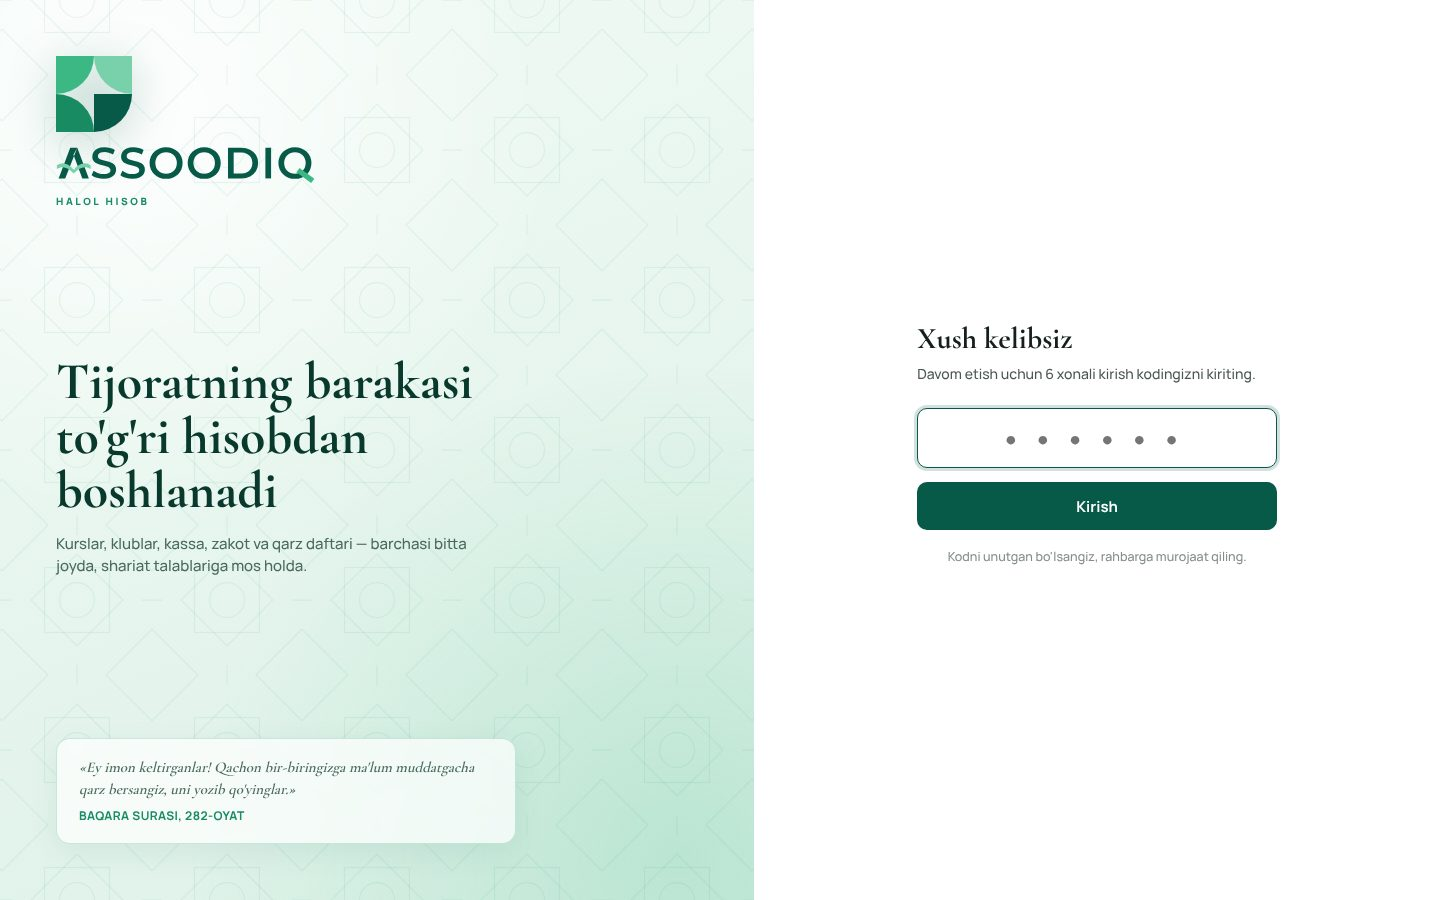
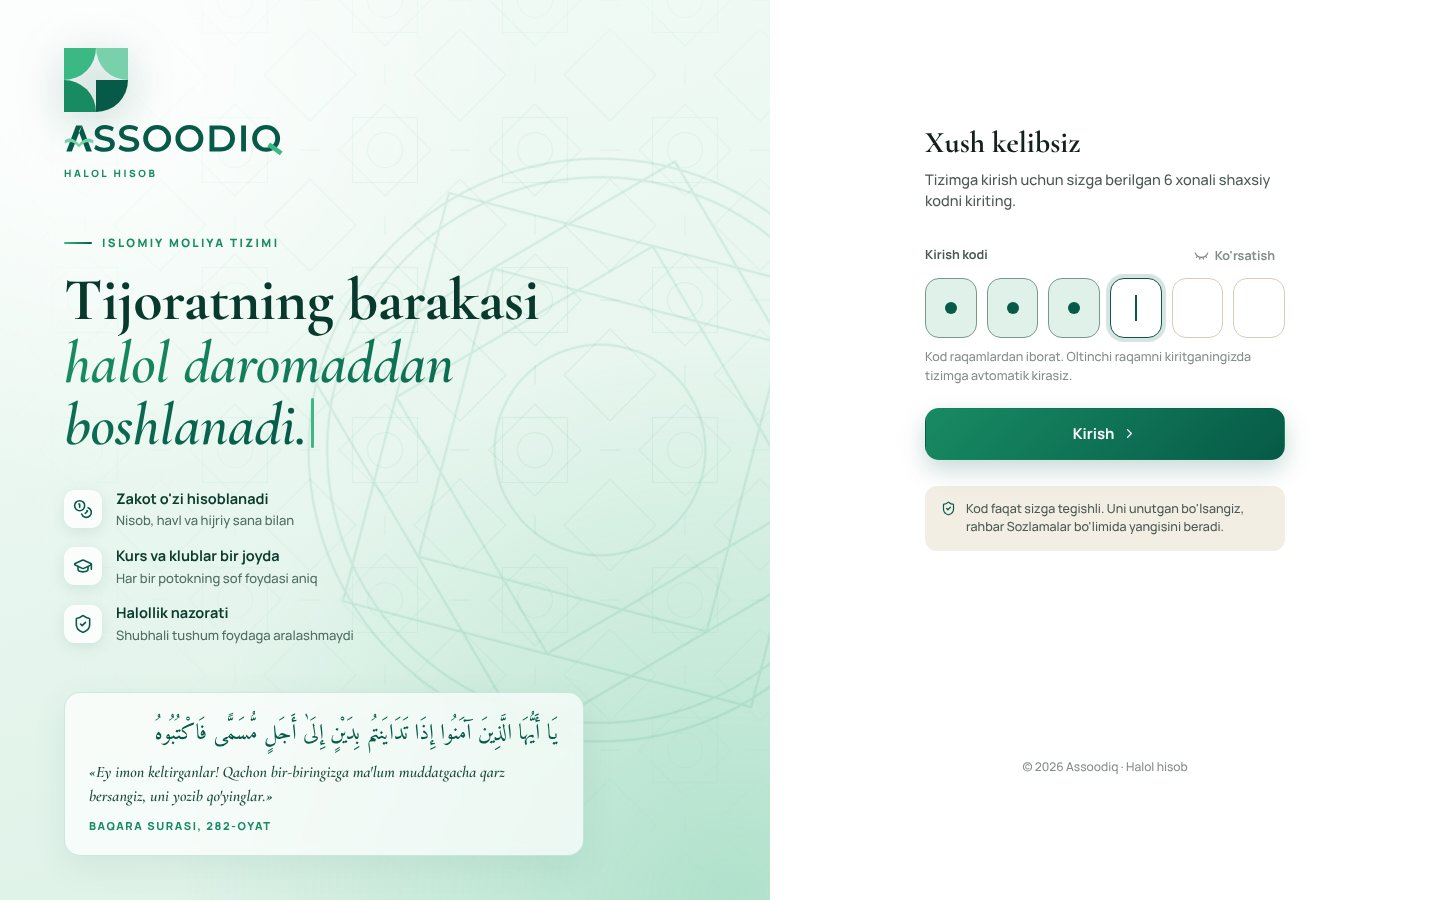
feat(login): professional kirish sahifasi — jonli sarlavha va 6 katakli kod
- Sarlavhaning ikkinchi qatori jonli yoziladi va 5 ta ibora almashinadi
  (ekran o'quvchilar uchun to'liq matn yashirin; reduced-motion'da statik)
- 6 katakli kod maydoni: oltinchi raqamda avtomatik kirish, "Ko'rsatish"
  tugmasi, xato maydon ostida (role=alert) va silkinish, yuklanish holati
- Chap tomon: ko'z ilg'amas aylanuvchi islomiy yulduz, imkoniyatlar ro'yxati,
  Baqara 282 arabcha matni (Amiri) va tarjimasi
- JS bo'lmasa ham oddiy maydon sifatida ishlaydi
- Dizayn: frontend-design va ui-ux-pro-max skillari tavsiyalari asosida

Claude-Session: https://claude.ai/code/session_01DkcMtNmmPnFdSFcGHH43mz

diff --git a/static/css/app.css b/static/css/app.css
@@ -376,25 +376,88 @@ details.more .menu { position: absolute; right: 0; top: calc(100% + 4px); backgr
 @keyframes fin { from { opacity: 0; transform: translateY(-6px); } }
 
 /* Kirish sahifasi */
-.login { min-height: 100vh; display: grid; grid-template-columns: 1.1fr 1fr; }
+.sr-only { position: absolute; width: 1px; height: 1px; padding: 0; margin: -1px; overflow: hidden; clip: rect(0 0 0 0); white-space: nowrap; border: 0; }
+
+/* ── Kirish sahifasi ───────────────────────────────────────────────────── */
+.login { min-height: 100vh; min-height: 100dvh; display: grid; grid-template-columns: minmax(0, 1.15fr) minmax(420px, 1fr); }
 .login-art {
-  position: relative; overflow: hidden; padding: 56px; display: flex; flex-direction: column; justify-content: space-between; gap: 32px;
+  position: relative; overflow: hidden; padding: 48px 64px 44px; display: flex; flex-direction: column; justify-content: space-between; gap: 40px;
   background:
-    radial-gradient(circle at 18% 12%, rgba(255, 255, 255, .9) 0, transparent 42%),
-    radial-gradient(circle at 90% 95%, rgba(60, 184, 133, .22) 0, transparent 45%),
-    linear-gradient(160deg, #F1FAF5 0%, #DDF1E7 100%);
+    radial-gradient(circle at 12% 8%, rgba(255, 255, 255, .95) 0, transparent 40%),
+    radial-gradient(circle at 95% 100%, rgba(60, 184, 133, .28) 0, transparent 48%),
+    linear-gradient(165deg, #F3FBF7 0%, #DCF1E6 100%);
   color: #0B3A2E;
 }
-.login-art::before { content: ""; position: absolute; inset: 0; background: url("../img/pattern-soft.svg") center/150px; opacity: .9; pointer-events: none; }
+.login-art::before { content: ""; position: absolute; inset: 0; background: url("../img/pattern-soft.svg") center/150px; pointer-events: none;
+  -webkit-mask-image: radial-gradient(circle at 70% 40%, #000 0, transparent 75%); mask-image: radial-gradient(circle at 70% 40%, #000 0, transparent 75%); }
 .login-art > * { position: relative; }
-.login-art h1 { font: 700 52px/1.05 var(--display); max-width: 460px; color: #08392C; }
-.login-art p { color: #4A6A5D; max-width: 420px; font-size: 15px; }
-.login-art .ayah { background: rgba(255, 255, 255, .72); border-color: rgba(24, 139, 99, .2); color: #163F33; max-width: 460px; backdrop-filter: blur(4px); box-shadow: 0 8px 30px rgba(6, 90, 71, .08); }
-.login-art .ayah small { color: #188B63; }
-.login-lockup { display: flex; flex-direction: column; align-items: flex-start; gap: 14px; }
-.login-lockup .mark { width: 76px; height: 76px; filter: drop-shadow(0 10px 22px rgba(6, 90, 71, .25)); }
-.login-lockup .wordmark { width: 260px; --logo-txt: #065A47; }
-.login-lockup .brand-sub { color: #188B63; margin-top: -4px; }
+.login-star { position: absolute !important; right: -140px; top: 50%; width: 620px; height: 620px; margin-top: -310px; color: #188B63; opacity: .11; animation: star-spin 160s linear infinite; pointer-events: none; }
+@keyframes star-spin { to { transform: rotate(360deg); } }
+.login-lockup { display: flex; flex-direction: column; align-items: flex-start; gap: 12px; }
+.login-lockup .mark { width: 64px; height: 64px; filter: drop-shadow(0 10px 22px rgba(6, 90, 71, .25)); }
+.login-lockup .wordmark { width: 220px; --logo-txt: #065A47; }
+.login-lockup .brand-sub { color: #188B63; margin-top: -2px; }
+.login-hero { max-width: 560px; }
+.eyebrow { display: inline-flex; align-items: center; gap: 10px; font-size: 11.5px; font-weight: 800; letter-spacing: 2.4px; text-transform: uppercase; color: #188B63; margin-bottom: 18px; }
+.eyebrow span { width: 28px; height: 2px; border-radius: 2px; background: linear-gradient(90deg, #3CB885, #065A47); }
+.login-art h1 { font: 700 clamp(40px, 4.4vw, 60px)/1.04 var(--display); color: #08392C; letter-spacing: -.3px; margin: 0; }
+.login-art h1 > span { display: block; }
+.type-line { color: #188B63; font-style: italic; min-height: 2.1em; }
+.type { background: linear-gradient(90deg, #188B63, #065A47); -webkit-background-clip: text; background-clip: text; color: transparent; }
+.caret { display: inline-block; width: 3px; height: .82em; margin-left: 4px; vertical-align: -.06em; border-radius: 2px; background: #3CB885; animation: caret 1s steps(1) infinite; }
+@keyframes caret { 50% { opacity: 0; } }
+.login-points { list-style: none; padding: 0; margin: 30px 0 0; display: grid; gap: 14px; }
+.login-points li { display: flex; gap: 14px; align-items: center; animation: fade-up .6s ease both; }
+.login-points li:nth-child(1) { animation-delay: .7s; } .login-points li:nth-child(2) { animation-delay: .82s; } .login-points li:nth-child(3) { animation-delay: .94s; }
+.login-points .ic { width: 38px; height: 38px; padding: 9px; border-radius: 11px; background: rgba(255, 255, 255, .8); color: #065A47; box-shadow: 0 4px 14px rgba(6, 90, 71, .1); flex: none; }
+.login-points b { display: block; font-size: 14.5px; color: #0B3A2E; }
+.login-points span { font-size: 13px; color: #4F6D61; }
+.login-ayah { margin: 0; max-width: 520px; padding: 20px 24px; border-radius: 16px; background: rgba(255, 255, 255, .7); border: 1px solid rgba(24, 139, 99, .18); backdrop-filter: blur(6px); box-shadow: 0 10px 34px rgba(6, 90, 71, .08); }
+.login-ayah blockquote { margin: 0; }
+.login-ayah .ar { font: 400 22px/1.9 "Amiri", serif; color: #065A47; margin: 0 0 6px; text-align: right; }
+.login-ayah .tr { font: italic 600 16px/1.5 var(--display); color: #1D4A3D; margin: 0; }
+.login-ayah figcaption { margin-top: 10px; font-size: 11px; font-weight: 800; letter-spacing: 1.6px; text-transform: uppercase; color: #188B63; }
+
+.login-form { position: relative; display: flex; flex-direction: column; align-items: center; justify-content: center; padding: 40px 32px 24px; background: var(--surface); }
+.login-box { width: min(380px, 100%); margin: auto 0; animation: fade-up .6s ease .15s both; }
+.login-mob-mark { display: none; }
+.login-box h2 { font: 700 34px/1.1 var(--display); margin: 0; }
+.login-sub { color: var(--txt2); margin: 8px 0 28px; font-size: 14.5px; }
+.login-box .fl { display: block; font-size: 12.5px; font-weight: 700; color: var(--txt2); margin-bottom: 8px; }
+.otp { position: relative; }
+.otp input { width: 100%; height: 60px; border-radius: 14px; border: 1px solid var(--line2); background: var(--surface); padding: 0 52px 0 18px; font: 800 26px var(--font); letter-spacing: 14px; color: var(--txt); text-align: center; }
+.otp input:focus { border-color: var(--brand); box-shadow: 0 0 0 4px color-mix(in srgb, var(--brand) 16%, transparent); outline: none; }
+.otp-cells { display: none; }
+/* JS bo'lsa: 6 ta katak ko'rinadi, haqiqiy maydon ularning ustida shaffof turadi */
+.js .otp input { position: absolute; inset: 0; height: 100%; opacity: 0; z-index: 2; cursor: text; letter-spacing: 0; padding: 0; }
+.js .otp-cells { display: grid; grid-template-columns: repeat(6, 1fr); gap: 10px; padding-right: 0; }
+.otp-cells span { height: 60px; border-radius: 14px; border: 1px solid var(--line2); background: var(--surface); display: grid; place-items: center; font: 800 24px var(--font); color: var(--txt); transition: border-color .15s, box-shadow .15s, transform .15s; }
+.otp-cells span.filled { border-color: color-mix(in srgb, var(--brand) 45%, var(--line2)); background: var(--brand-bg); }
+.otp-cells span.filled.is-dot::after { content: ""; width: 12px; height: 12px; border-radius: 50%; background: var(--brand); }
+.otp.focus .otp-cells span.active { border-color: var(--brand); box-shadow: 0 0 0 4px color-mix(in srgb, var(--brand) 16%, transparent); }
+.otp.focus .otp-cells span.active:not(.filled)::after { content: ""; width: 2px; height: 26px; background: var(--brand); animation: caret 1s steps(1) infinite; }
+.otp.has-error .otp-cells span, .otp.has-error input { border-color: var(--bad); }
+.otp.shake { animation: shake .4s ease; }
+@keyframes shake { 20%, 60% { transform: translateX(-6px); } 40%, 80% { transform: translateX(6px); } }
+.otp-head { display: flex; align-items: center; justify-content: space-between; margin-bottom: 8px; }
+.otp-head .fl { margin-bottom: 0 !important; }
+.otp-eye { display: none; }
+.js .otp-eye { display: inline-flex; align-items: center; gap: 6px; height: 30px; padding: 0 10px; border-radius: 8px; border: 0; background: transparent; color: var(--txt3); font: 700 12.5px var(--font); cursor: pointer; }
+.otp-eye:hover { background: var(--surface2); color: var(--txt2); }
+.otp-eye[aria-pressed="true"] { color: var(--brand-txt); }
+.login-err { display: flex; align-items: center; gap: 8px; color: var(--bad); font-weight: 700; font-size: 13px; margin: 10px 0 0; }
+.login-help { color: var(--txt3); font-size: 12.5px; margin: 10px 0 0; }
+.login-btn { height: 52px !important; margin-top: 22px; font-size: 15px !important; border-radius: 14px !important; background: linear-gradient(135deg, #188B63, #065A47) !important; box-shadow: 0 10px 24px rgba(6, 90, 71, .22); transition: transform .15s, box-shadow .15s; }
+.login-btn:hover { transform: translateY(-1px); box-shadow: 0 14px 28px rgba(6, 90, 71, .28); }
+.login-btn:focus-visible { outline: 3px solid color-mix(in srgb, var(--brand) 40%, transparent); outline-offset: 3px; }
+.login-btn .lbl-idle, .login-btn .lbl-busy { display: inline-flex; align-items: center; gap: 8px; }
+.login-btn .lbl-busy { display: none; }
+.login-btn.busy .lbl-idle { display: none; }
+.login-btn.busy .lbl-busy { display: inline-flex; }
+.spin { width: 16px; height: 16px; border-radius: 50%; border: 2px solid rgba(255, 255, 255, .35); border-top-color: #fff; animation: star-spin .7s linear infinite; }
+.login-note { display: flex; gap: 10px; align-items: flex-start; margin-top: 26px; padding: 14px 16px; border-radius: 12px; background: var(--surface2); color: var(--txt2); font-size: 12.5px; }
+.login-note .ic { color: var(--brand-txt); margin-top: 1px; }
+.login-foot { margin-top: 24px; font-size: 12px; color: var(--txt3); }
 /* logo bo'laklari burchakdan yig'iladi */
 .login-lockup .q { transform-box: fill-box; animation: q-in .7s cubic-bezier(.2, .8, .2, 1.15) both; }
 .login-lockup .q1 { transform-origin: 0 0; animation-delay: .05s; }
@@ -456,11 +519,21 @@ details.more .menu { position: absolute; right: 0; top: calc(100% + 4px); backgr
   .search { max-width: none; min-width: 100%; }
   .form-grid { grid-template-columns: minmax(0, 1fr); }
   .login { grid-template-columns: minmax(0, 1fr); }
-  .login-art { padding: 32px 24px; gap: 20px; }
-  .login-lockup .mark { width: 56px; height: 56px; }
-  .login-lockup .wordmark { width: 200px; }
-  .login-art h1 { font-size: 36px; }
-  .login-art .ayah, .login-art p { display: none; }
+  .login-art { padding: 24px 20px 28px; gap: 22px; }
+  .login-star { width: 360px; height: 360px; right: -150px; margin-top: -180px; }
+  .login-lockup { flex-direction: row; align-items: center; gap: 10px; }
+  .login-lockup .mark { width: 40px; height: 40px; }
+  .login-lockup .wordmark { width: 150px; }
+  .login-lockup .brand-sub { display: none; }
+  .login-art h1 { font-size: 34px; }
+  .type-line { min-height: 2.1em; }
+  .login-points, .login-ayah { display: none; }
+  .eyebrow { margin-bottom: 12px; }
+  .login-form { padding: 28px 20px 24px; justify-content: flex-start; }
+  .login-box h2 { font-size: 28px; }
+  .js .otp-cells { gap: 8px; }
+  .otp-cells span { height: 54px; }
+
   /* Jadval → kartochka */
   .table.cards thead { display: none; }
   .table.cards, .table.cards tbody, .table.cards tr, .table.cards td { display: block; width: 100%; }

diff --git a/templates/pages/login.html b/templates/pages/login.html
@@ -1,30 +1,77 @@
 {% extends "base.html" %}
 {% block title %}Kirish{% endblock %}
+{% block flashes %}{% endblock %}
 {% block body %}
-<div class="login">
-  <div class="login-art">
+{% set errors = get_flashed_messages(category_filter=["bad"]) %}
+<main class="login">
+  <section class="login-art" aria-label="Assoodiq haqida">
+    <svg class="login-star" viewBox="-50 -50 100 100" aria-hidden="true">
+      <g fill="none" stroke="currentColor" stroke-width=".35">
+        <rect x="-34" y="-34" width="68" height="68"/>
+        <rect x="-34" y="-34" width="68" height="68" transform="rotate(45)"/>
+        <rect x="-24" y="-24" width="48" height="48"/>
+        <rect x="-24" y="-24" width="48" height="48" transform="rotate(45)"/>
+        <circle r="17"/><circle r="44"/><circle r="47"/>
+      </g>
+    </svg>
+
     <div class="login-lockup" aria-label="Assoodiq">
       {% include "partials/mark.svg" %}
       {% include "partials/wordmark.svg" %}
       <div class="brand-sub">Halol hisob</div>
     </div>
-    <div>
-      <h1>Tijoratning barakasi to'g'ri hisobdan boshlanadi</h1>
-      <p style="margin-top:14px">Kurslar, klublar, kassa, zakot va qarz daftari — barchasi bitta joyda, shariat talablariga mos holda.</p>
+
+    <div class="login-hero">
+      <div class="eyebrow"><span></span>Islomiy moliya tizimi</div>
+      <h1>
+        <span class="sr-only">Tijoratning barakasi to'g'ri hisobdan boshlanadi</span>
+        <span aria-hidden="true">Tijoratning barakasi</span>
+        <span class="type-line" aria-hidden="true"><span class="type" data-type='["to&#39;g&#39;ri hisobdan boshlanadi.", "halol daromaddan boshlanadi.", "o&#39;z vaqtida berilgan zakotdan.", "yozib qo&#39;yilgan qarzdan.", "shaffof hamkorlikdan."]'>to'g'ri hisobdan boshlanadi.</span><span class="caret"></span></span>
+      </h1>
+      <ul class="login-points">
+        <li>{{ ui.icon('coins', 'sm') }}<div><b>Zakot o'zi hisoblanadi</b><span>Nisob, havl va hijriy sana bilan</span></div></li>
+        <li>{{ ui.icon('cap', 'sm') }}<div><b>Kurs va klublar bir joyda</b><span>Har bir potokning sof foydasi aniq</span></div></li>
+        <li>{{ ui.icon('shield', 'sm') }}<div><b>Halollik nazorati</b><span>Shubhali tushum foydaga aralashmaydi</span></div></li>
+      </ul>
     </div>
-    <div class="ayah">
-      <p>«Ey imon keltirganlar! Qachon bir-biringizga ma'lum muddatgacha qarz bersangiz, uni yozib qo'yinglar.»</p>
-      <small>BAQARA SURASI, 282-OYAT</small>
-    </div>
-  </div>
-  <div class="login-form">
-    <form class="login-box" method="post">
+
+    <figure class="login-ayah">
+      <blockquote>
+        <p class="ar" lang="ar" dir="rtl">يَا أَيُّهَا الَّذِينَ آمَنُوا إِذَا تَدَايَنتُم بِدَيْنٍ إِلَىٰ أَجَلٍ مُّسَمًّى فَاكْتُبُوهُ</p>
+        <p class="tr">«Ey imon keltirganlar! Qachon bir-biringizga ma'lum muddatgacha qarz bersangiz, uni yozib qo'yinglar.»</p>
+      </blockquote>
+      <figcaption>Baqara surasi, 282-oyat</figcaption>
+    </figure>
+  </section>
+
+  <section class="login-form">
+    <form class="login-box" method="post" novalidate data-login>
+      <div class="login-mob-mark">{% include "partials/mark.svg" %}</div>
       <h2>Xush kelibsiz</h2>
-      <p class="muted" style="margin:6px 0 24px">Davom etish uchun 6 xonali kirish kodingizni kiriting.</p>
-      <input class="input code-in" name="code" inputmode="numeric" maxlength="6" autocomplete="one-time-code" autofocus placeholder="••••••" required>
-      <button class="btn solid block" style="height:48px;margin-top:14px;font-size:15px">Kirish</button>
-      <p class="faint" style="font-size:12.5px;margin-top:18px;text-align:center">Kodni unutgan bo'lsangiz, rahbarga murojaat qiling.</p>
+      <p class="login-sub">Tizimga kirish uchun sizga berilgan 6 xonali shaxsiy kodni kiriting.</p>
+
+      <div class="otp-head">
+        <label class="fl" for="code">Kirish kodi</label>
+        <button type="button" class="otp-eye" data-reveal aria-controls="code" aria-pressed="false">{{ ui.icon('eye-closed', 'sm') }}<span>Ko'rsatish</span></button>
+      </div>
+      <div class="otp {{ 'has-error' if errors }}" data-otp>
+        <input id="code" name="code" inputmode="numeric" pattern="[0-9]*" maxlength="6" autocomplete="one-time-code"
+               autofocus required aria-describedby="code-help{{ ' code-err' if errors }}" {{ 'aria-invalid=true' if errors }}>
+        <div class="otp-cells" aria-hidden="true">{% for i in range(6) %}<span></span>{% endfor %}</div>
+      </div>
+      {% if errors %}
+      <p class="login-err" id="code-err" role="alert">{{ ui.icon('alert', 'sm') }}{{ errors[-1] }}</p>
+      {% endif %}
+      <p class="login-help" id="code-help">Kod raqamlardan iborat. Oltinchi raqamni kiritganingizda tizimga avtomatik kirasiz.</p>
+
+      <button class="btn solid block login-btn" data-submit>
+        <span class="lbl-idle">Kirish {{ ui.icon('right', 'sm') }}</span>
+        <span class="lbl-busy"><i class="spin"></i>Tekshirilmoqda…</span>
+      </button>
+
+      <div class="login-note">{{ ui.icon('shield', 'sm') }}<span>Kod faqat sizga tegishli. Uni unutgan bo'lsangiz, rahbar Sozlamalar bo'limida yangisini beradi.</span></div>
     </form>
-  </div>
-</div>
+    <footer class="login-foot">© {{ today.year }} Assoodiq · Halol hisob</footer>
+  </section>
+</main>
 {% endblock %}

diff --git a/static/js/app.js b/static/js/app.js
@@ -140,6 +140,79 @@
     });
   });
 
+  // ── Kirish sahifasi ──
+  var reduceMotion = matchMedia('(prefers-reduced-motion: reduce)').matches;
+
+  // Sarlavhaning ikkinchi qatori jonli yoziladi: yozadi → kutadi → o'chiradi → keyingisi
+  document.querySelectorAll('[data-type]').forEach(function (el) {
+    var phrases;
+    try { phrases = JSON.parse(el.dataset.type); } catch (e) { return; }
+    if (reduceMotion || !phrases.length) return;
+    var i = 0, pos = phrases[0].length, deleting = true;
+    function tick() {
+      var text = phrases[i];
+      if (deleting) {
+        pos--;
+        el.textContent = text.slice(0, pos);
+        if (pos <= 0) { deleting = false; i = (i + 1) % phrases.length; return setTimeout(tick, 350); }
+        return setTimeout(tick, 28);
+      }
+      text = phrases[i];
+      pos++;
+      el.textContent = text.slice(0, pos);
+      if (pos >= text.length) { deleting = true; return setTimeout(tick, 2600); }
+      setTimeout(tick, 55 + Math.random() * 45);
+    }
+    setTimeout(tick, 3200);  // birinchi ibora avval to'liq o'qilsin
+  });
+
+  // 6 xonali kod: kataklar haqiqiy maydonni aks ettiradi
+  document.querySelectorAll('[data-otp]').forEach(function (box) {
+    var input = box.querySelector('input');
+    var cells = box.querySelectorAll('.otp-cells span');
+    var eye = box.parentElement.querySelector('[data-reveal]');
+    var form = box.closest('form');
+    var reveal = false;
+    function render() {
+      input.value = input.value.replace(/\D/g, '').slice(0, 6);
+      var v = input.value;
+      cells.forEach(function (c, k) {
+        c.classList.toggle('filled', k < v.length);
+        c.classList.toggle('is-dot', k < v.length && !reveal);
+        c.classList.toggle('active', k === Math.min(v.length, 5));
+        c.textContent = k < v.length && reveal ? v[k] : '';
+      });
+      box.classList.remove('has-error');
+    }
+    input.addEventListener('input', function () {
+      render();
+      if (input.value.length === 6) submit();
+    });
+    input.addEventListener('focus', function () { box.classList.add('focus'); });
+    input.addEventListener('blur', function () { box.classList.remove('focus'); });
+    if (eye) eye.addEventListener('click', function () {
+      reveal = !reveal;
+      eye.setAttribute('aria-pressed', reveal);
+      eye.querySelector('span').textContent = reveal ? 'Yashirish' : "Ko'rsatish";
+      render(); input.focus();
+    });
+    function submit() {
+      if (input.value.length !== 6) {
+        box.classList.remove('shake'); void box.offsetWidth; box.classList.add('shake', 'has-error');
+        input.focus();
+        return false;
+      }
+      var btn = form.querySelector('[data-submit]');
+      if (btn) { btn.classList.add('busy'); btn.disabled = true; }
+      form.submit();
+      return true;
+    }
+    form.addEventListener('submit', function (e) { e.preventDefault(); submit(); });
+    if (box.classList.contains('has-error')) { box.classList.add('shake'); }
+    render();
+    if (document.activeElement === input) box.classList.add('focus');
+  });
+
   // Xabarlar o'zi yo'qoladi
   setTimeout(function () {
     document.querySelectorAll('.flash').forEach(function (f) {

diff --git a/templates/base.html b/templates/base.html
@@ -11,9 +11,10 @@
   <meta name="theme-color" content="#065A47">
   <link rel="preconnect" href="https://fonts.googleapis.com">
   <link rel="preconnect" href="https://fonts.gstatic.com" crossorigin>
-  <link href="https://fonts.googleapis.com/css2?family=Cormorant+Garamond:wght@600;700&family=Manrope:wght@500;600;700;800&display=swap" rel="stylesheet">
-  <link rel="stylesheet" href="{{ url_for('static', filename='css/app.css') }}?v=3">
+  <link href="https://fonts.googleapis.com/css2?family=Amiri:wght@400;700&family=Cormorant+Garamond:ital,wght@0,600;0,700;1,600&family=Manrope:wght@500;600;700;800&display=swap" rel="stylesheet">
+  <link rel="stylesheet" href="{{ url_for('static', filename='css/app.css') }}?v=4">
   <script>
+    document.documentElement.classList.add('js');
     try { var t = localStorage.getItem('theme'); if (t) document.documentElement.dataset.theme = t; } catch (e) {}
   </script>
 </head>
@@ -73,10 +74,12 @@
 {% block fab %}{% endblock %}
 {% endblock %}
 
+{% block flashes %}
 <div class="flashes">
   {% for cat, msg in get_flashed_messages(with_categories=true) %}<div class="flash {{ cat }}">{{ msg }}</div>{% endfor %}
 </div>
-<script src="{{ url_for('static', filename='js/app.js') }}?v=3"></script>
+{% endblock %}
+<script src="{{ url_for('static', filename='js/app.js') }}?v=4"></script>
 {% block scripts %}{% endblock %}
 </body>
 </html>

diff --git a/templates/partials/ui.html b/templates/partials/ui.html
@@ -43,6 +43,7 @@
   "down": '<path d="m22 17-8.5-8.5-5 5L2 7"/><path d="M16 17h6v-6"/>',
   "info": '<circle cx="12" cy="12" r="10"/><path d="M12 16v-4M12 8h.01"/>',
   "briefcase": '<path d="M16 20V4a2 2 0 0 0-2-2h-4a2 2 0 0 0-2 2v16"/><rect width="20" height="14" x="2" y="6" rx="2"/>',
+  "eye-closed": '<path d="m15 18-.722-3.25"/><path d="M2 8a10.645 10.645 0 0 0 20 0"/><path d="m20 15-1.726-2.05"/><path d="m4 15 1.726-2.05"/><path d="m9 18 .722-3.25"/>',
   "gem": '<path d="M6 3h12l4 6-10 13L2 9Z"/><path d="M11 3 8 9l4 13 4-13-3-6"/><path d="M2 9h20"/>'
 } %}
 
